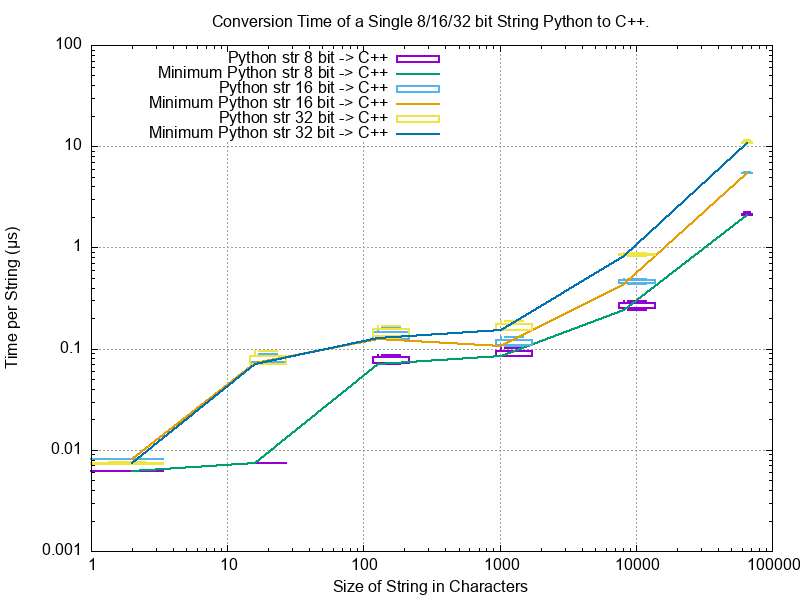
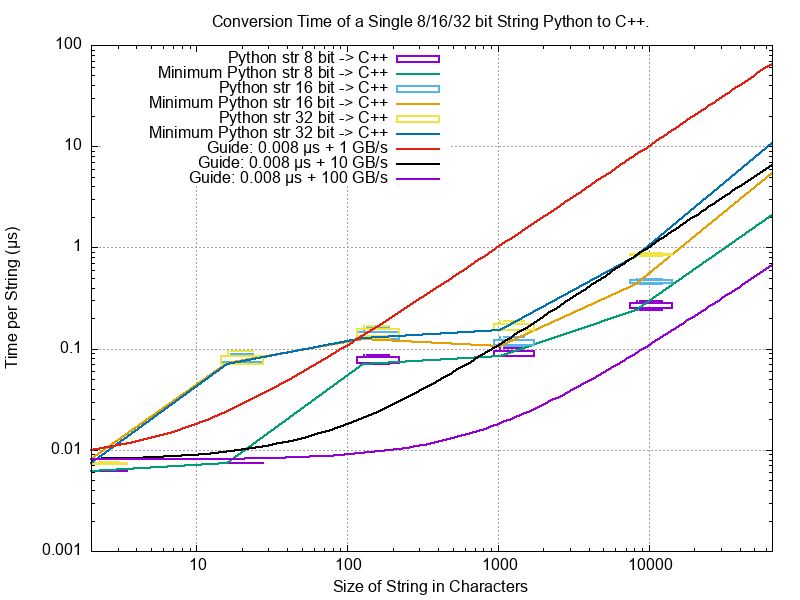
WIP on performance.

diff --git a/docs/sphinx/source/performance/performance_cpp.rst b/docs/sphinx/source/performance/performance_cpp.rst
@@ -16,7 +16,7 @@ memory tests.
 
 The performance tests are in ``src/cpy/tests/test_performance.h`` and ``src/cpy/tests/test_performance.cpp``.
 There are a number of macros ``TEST_PERFORMANCE_*`` there that control which tests are run.
-Running all tests takes about 20 minutes.
+Running all tests takes about 6.5 hours.
 
 The tests can be run by building and running the C++ binary from the project root:
 
@@ -26,25 +26,53 @@ The tests can be run by building and running the C++ binary from the project roo
     cmake --build cmake-build-release --target PyCppContainers -- -j 6
     cmake-build-release/PyCppContainers
 
+.. note::
+
+    The debug build includes more exhaustive internal tests (using ``assert()``) but excludes the performance tests as
+    they take a *very* long time for a debug build.
+
 The output is large and looks like this:
+
+.. raw:: latex
+
+    \begin{landscape}
 
 .. code-block:: shell
 
-    cmake-build-release/PyCppContainers
+    $ cmake-build-release/PyCppContainers
+    ---> C++ release tests
     Hello, World!
     Python version: 3.12.1
     test_functional_all START
-    RSS(Mb): was:     29.047 now:     29.062 diff:     +0.016 Peak was:     29.047 now:     29.062 diff:     +0.016 test_vector_to_py_tuple<bool>
-    RSS(Mb): was:     29.062 now:     29.074 diff:     +0.012 Peak was:     29.062 now:     29.074 diff:     +0.012 test_vector_to_py_tuple<long>
-    RSS(Mb): was:     29.074 now:     29.098 diff:     +0.023 Peak was:     29.074 now:     29.098 diff:     +0.023 test_vector_to_py_tuple<double>
+    RSS(Mb): was:     16.523 now:     16.531 diff:     +0.008 Peak was:     16.523 now:     16.531 diff:     +0.008 test_vector_to_py_tuple<bool>
+    RSS(Mb): was:     16.531 now:     16.535 diff:     +0.004 Peak was:     16.531 now:     16.535 diff:     +0.004 test_vector_to_py_tuple<long>
+    RSS(Mb): was:     16.535 now:     16.539 diff:     +0.004 Peak was:     16.535 now:     16.539 diff:     +0.004 test_vector_to_py_tuple<double>
+
     8<---- Snip ---->8
 
+    TEST:    0    4096       1     0.002047584             N/A             N/A             N/A         1         488.4 test_py_tuple_str32_to_vector std::string[2048]>():[4096]
+    TEST:    0    8192       1     0.004002917             N/A             N/A             N/A         1         249.8 test_py_tuple_str32_to_vector std::string[2048]>():[8192]
+    TEST:    0   16384       1     0.008183250             N/A             N/A             N/A         1         122.2 test_py_tuple_str32_to_vector std::string[2048]>():[16384]
+    TEST:    0   32768       1     0.039068668             N/A             N/A             N/A         1          25.6 test_py_tuple_str32_to_vector std::string[2048]>():[32768]
+    TEST:    0   65536       1     0.044092626             N/A             N/A             N/A         1          22.7 test_py_tuple_str32_to_vector std::string[2048]>():[65536]
+    TEST:    0    4096       1     4.745317500             N/A             N/A             N/A         1           0.2 test_unordered_set_bytes_to_py_set std::string[1048576]>():[4096]
+    TAIL: Passed=24192/24192 Failed=0/24192
+    All tests pass.
+
+    ====RSS(Mb): was:      9.262 now:    844.883 diff:   +835.621 Peak was:      9.262 now:   3593.207 diff:  +3583.945 main.cpp
+    Total execution time:    23880.011 (s)
+    Count of unique strings created: 131724750
+    Bye, bye! Returning 0
+
+.. raw:: latex
+
+    \end{landscape}
 
 The complete output can be captured to ``perf_notes/cpp_test_results.txt`` with this command:
 
 .. code-block:: shell
 
-    caffeinate time cmake-build-release/PyCppContainers > perf_notes/cpp_test_results.txt
+    $ time cmake-build-release/PyCppContainers > perf_notes/cpp_test_results.txt
 
 Then there is a Python script ``perf_notes/write_dat_files_for_cpp_test_results.py`` that will extract all the
 performance data into ``perf_notes/dat`` suitable for gnuplot.
@@ -62,6 +90,24 @@ Conversion of Fundamental Types
 These C++ functions test the cost of converting ints, floats and bytes objects between Python and C++.
 These test are executed if the macro ``TEST_PERFORMANCE_FUNDAMENTAL_TYPES`` is defined.
 
+Numeric Types
+^^^^^^^^^^^^^^^^^
+
+..
+    From perf_notes/cpp_test_results.txt
+    HEAD: Fail   Scale  Repeat         Mean(s)     Std.Dev.(s)         Min.(s)         Max.(s)     Count      Rate(/s) Name
+    TEST:    0 1000000      20     0.001561753     0.000001978     0.001560542     0.001567459        20       12806.1 test_bool_to_py_bool_multiple[1000000]
+    TEST:    0 1000000      20     0.001468528     0.000027571     0.001455168     0.001562000        20       13619.1 test_py_bool_to_cpp_bool_multiple[1000000]
+    TEST:    0 1000000      20     0.020391246     0.002205520     0.018449710     0.024430667        20         980.8 test_long_to_py_int_multiple[1000000]
+    TEST:    0 1000000      20     0.004190838     0.000008678     0.004167083     0.004201125        20        4772.3 test_py_int_to_cpp_long_multiple[1000000]
+    TEST:    0 1000000      20     0.015347088     0.000493604     0.014248792     0.015617834        20        1303.2 test_double_to_py_float_multiple[1000000]
+    TEST:    0 1000000      20     0.005575696     0.000007624     0.005568000     0.005591876        20        3587.0 test_py_float_to_cpp_double_multiple[1000000]
+    TEST:    0 1000000      20     0.022577623     0.000916127     0.021249167     0.025298459        20         885.8 test_complex_to_py_complex_multiple[1000000]
+    TEST:    0 1000000      20     0.006424378     0.000006946     0.006420126     0.006452625        20        3113.1 test_py_complex_to_cpp_complex_multiple[1000000]
+
+    Example: test_bool_to_py_bool_multiple() C++ to Python. Min is 0.001560542 for 1e6 conversions. So 1e9 * 0.00156 / 1e6 = 1.56
+    Example: test_py_bool_to_cpp_bool_multiple() Python to C++. Min is 0.001455168 for 1e6 conversions. So 1e9 * 0.00146 / 1e6 = 1.46
+
 .. list-table:: Fundamental Type Conversion Time. Times in nanoseconds.
    :widths: 30 20 20 20 60
    :header-rows: 1
@@ -72,31 +118,70 @@ These test are executed if the macro ``TEST_PERFORMANCE_FUNDAMENTAL_TYPES`` is d
      - Ratio
      - Notes
    * - ``bool``/``bool``
-     - 2.7
-     - 1.6
-     - 1.7x
-     - The mean is around 450m/s
+     - 1.56
+     - 1.46
+     - 1.07x
+     - The mean is around 660 million/s
    * - ``long``/``int``
-     - 14.6
-     - 4.6
-     - 3.2x
-     - The mean is around 100m/s.
+     - 18.4
+     - 4.16
+     - 4.42x
+     - The mean is around 88 million/s.
    * - ``double``/``float``
-     - 8.6
-     - 2.7
-     - 3.2x
-     - The mean is around 180m/s.
+     - 14.2
+     - 5.56
+     - 2.55x
+     - The mean is around 100 million/s.
    * - ``complex<double>``/``complex``
-     - 12.2
-     - 4.9
-     - 2.5x
-     - The mean is around 120m/s.
+     - 21.2
+     - 6.42
+     - 3.30x
+     - The mean is around 72 million/s.
 
 Converting from C++ to Python is always slower than from Python to C++.
 
+
+``bytes``
+^^^^^^^^^^^^^^^^^^^^^^^^^^^
+
 For a single C++ ``std::vector<char>`` to and from Python ``bytes`` of different lengths:
 
-.. list-table:: Fundamental Type Conversion Time. Times in nanoseconds.
+..
+    From perf_notes/cpp_test_results.txt
+    HEAD: Fail   Scale  Repeat         Mean(s)     Std.Dev.(s)         Min.(s)         Max.(s)     Count      Rate(/s) Name
+    TEST:    0 1000000      20     0.057439107     0.006509894     0.052396208     0.075423792        20         348.2 test_cpp_vector_char_to_py_bytes_multiple_2[1000000]
+    TEST:    0 1000000      20     0.053159580     0.000777435     0.052021209     0.054217417        20         376.2 test_cpp_vector_char_to_py_bytes_multiple_16[1000000]
+    TEST:    0 1000000      20     0.054709067     0.000891610     0.053596959     0.056247709        20         365.6 test_cpp_vector_char_to_py_bytes_multiple_128[1000000]
+    TEST:    0 1000000      20     0.119114457     0.009596428     0.107581917     0.139490666        20         167.9 test_cpp_vector_char_to_py_bytes_multiple_1024[1000000]
+    TEST:    0 1000000      20     0.300614207     0.017573230     0.271704084     0.328277376        20          66.5 test_cpp_vector_char_to_py_bytes_multiple_8192[1000000]
+    TEST:    0 1000000      20     2.420889067     0.030892970     2.374831875     2.488255167        20           8.3 test_cpp_vector_char_to_py_bytes_multiple_65536[1000000]
+    TEST:    0 1000000      20     0.056535515     0.003379383     0.051730335     0.062494459        20         353.8 test_py_bytes_to_cpp_vector_char_multiple_2[1000000]
+    TEST:    0 1000000      20     0.054382388     0.002028227     0.052218167     0.059590500        20         367.8 test_py_bytes_to_cpp_vector_char_multiple_16[1000000]
+    TEST:    0 1000000      20     0.072021513     0.002964195     0.068870083     0.078325250        20         277.7 test_py_bytes_to_cpp_vector_char_multiple_128[1000000]
+    TEST:    0 1000000      20     0.091097832     0.005092673     0.083415293     0.101530751        20         219.5 test_py_bytes_to_cpp_vector_char_multiple_1024[1000000]
+    TEST:    0 1000000      20     0.263217424     0.015400919     0.240177208     0.287619668        20          76.0 test_py_bytes_to_cpp_vector_char_multiple_8192[1000000]
+    TEST:    0 1000000      20     2.124635850     0.017340990     2.084605542     2.158811208        20           9.4 test_py_bytes_to_cpp_vector_char_multiple_65536[1000000]
+
+    Example: test_cpp_vector_char_to_py_bytes_multiple_2() C++ to Python. Min is 0.052396208 for 1e6 conversions. So 1e9 * 0.0524 / 1e6 = 52.4
+    Example: test_py_bytes_to_cpp_vector_char_multiple_2() Python to C++. Min is 0.051730335 for 1e6 conversions. So 1e9 * 0.0517 / 1e6 = 51.7
+
+.. image:: ../plots/images/test_cpp_vector_char_to_py_bytes.png
+    :height: 600px
+    :align: center
+
+.. todo::
+
+    Commentary.
+
+.. image:: ../plots/images/test_py_bytes_to_cpp_vector_char_multiple.dat.png
+    :height: 600px
+    :align: center
+
+.. todo::
+
+    Commentary.
+
+.. list-table:: ``bytes`` Conversion Time. Times in nanoseconds.
    :widths: 30 20 20 20 60
    :header-rows: 1
 
@@ -106,43 +191,97 @@ For a single C++ ``std::vector<char>`` to and from Python ``bytes`` of different
      - Ratio
      - Notes
    * - 2
-     - 17.3
-     - 4.7
-     - 3.7x
+     - 52.4
+     - 51.7
+     - 1.01x
      -
    * - 16
-     - 16.9
-     - 4.0
-     - 4.2x
+     - 52.0
+     - 52.2
+     - 0.996x
      -
    * - 128
-     - 20.1
-     - 64.1
-     - 0.31x
+     - 53.6
+     - 68.9
+     - 0.778x
      -
    * - 1024
-     - 80.7
-     - 67.1
-     - 1.2x
-     - Corresponds to about 14 Gb/s
+     - 108
+     - 83.4
+     - 1.30x
+     - Corresponds to about 11 Gb/s
    * - 8192
-     - 131.7
-     - 119.7
-     - 1.1x
-     - Corresponds to about 64 Gb/s
+     - 272
+     - 240
+     - 1.13x
+     - Corresponds to about 32 Gb/s
    * - 65536
-     - 1,567
-     - 1,551
-     - 1.0x
-     - Corresponds to about 41 Gb/s
-
-Bytes conversion time from C++ to Python or the reverse takes asymptotically and roughly:
-
-.. code-block:: text
-
-    t (ns) = 1200 * length / 50,000
+     - 2,375
+     - 2,085
+     - 1.14x
+     - Corresponds to about 29 Gb/s
 
 For a single C++ ``std::string`` to and from Python ``str`` of different lengths:
+
+Strings
+^^^^^^^^^^^^^^^^^^^^^^
+
+..
+    From perf_notes/cpp_test_results.txt
+    HEAD: Fail   Scale  Repeat         Mean(s)     Std.Dev.(s)         Min.(s)         Max.(s)     Count      Rate(/s) Name
+    TEST:    0 1000000      20     0.058759109     0.003645734     0.053923376     0.066701584        20         340.4 test_cpp_string_to_py_str_multiple_2[1000000]
+    TEST:    0 1000000      20     0.060736565     0.001276392     0.058984251     0.063327876        20         329.3 test_cpp_string_to_py_str_multiple_16[1000000]
+    TEST:    0 1000000      20     0.064648476     0.001873584     0.061841501     0.069060916        20         309.4 test_cpp_string_to_py_str_multiple_128[1000000]
+    TEST:    0 1000000      20     0.197420682     0.011602980     0.185850333     0.219071125        20         101.3 test_cpp_string_to_py_str_multiple_1024[1000000]
+    TEST:    0 1000000      20     0.720809661     0.017942847     0.686475625     0.746969209        20          27.7 test_cpp_string_to_py_str_multiple_8192[1000000]
+    TEST:    0 1000000      20     5.359504186     0.024684586     5.327452417     5.432398459        20           3.7 test_cpp_string_to_py_str_multiple_65536[1000000]
+    TEST:    0 1000000      20     0.006176815     0.000003319     0.006173209     0.006182918        20        3237.9 test_py_str_to_cpp_string_multiple_2[1000000]
+    TEST:    0 1000000      20     0.007333573     0.000004223     0.007330334     0.007346251        20        2727.2 test_py_str_to_cpp_string_multiple_16[1000000]
+    TEST:    0 1000000      20     0.077593984     0.005359461     0.070420583     0.085804625        20         257.8 test_py_str_to_cpp_string_multiple_128[1000000]
+    TEST:    0 1000000      20     0.089523303     0.005118394     0.083854375     0.100696042        20         223.4 test_py_str_to_cpp_string_multiple_1024[1000000]
+    TEST:    0 1000000      20     0.266933671     0.015144741     0.243118751     0.292431167        20          74.9 test_py_str_to_cpp_string_multiple_8192[1000000]
+    TEST:    0 1000000      20     2.123572144     0.033200797     2.094082043     2.250884334        20           9.4 test_py_str_to_cpp_string_multiple_65536[1000000]
+    TEST:    0 1000000      20     0.042588886     0.001377939     0.040422959     0.043991375        20         469.6 test_cpp_u16string_to_py_str16_multiple_2[1000000]
+    TEST:    0 1000000      20     0.147994407     0.009139400     0.138898917     0.164160334        20         135.1 test_cpp_u16string_to_py_str16_multiple_16[1000000]
+    TEST:    0 1000000      20     0.873698398     0.009309133     0.854021875     0.887453251        20          22.9 test_cpp_u16string_to_py_str16_multiple_128[1000000]
+    TEST:    0 1000000      20     6.716434430     0.026116913     6.675454917     6.768655084        20           3.0 test_cpp_u16string_to_py_str16_multiple_1024[1000000]
+    TEST:    0 1000000      20    63.329128475     7.383649449    53.119942417    82.049977584        20           0.3 test_cpp_u16string_to_py_str16_multiple_8192[1000000]
+    TEST:    0 1000000      20   434.770099001    15.165859601   423.448348083   486.720068750        20           0.0 test_cpp_u16string_to_py_str16_multiple_65536[1000000]
+    TEST:    0 1000000      20     0.008109303     0.000006100     0.008102167     0.008129042        20        2466.3 test_py_str16_to_cpp_u16string_multiple_2[1000000]
+    TEST:    0 1000000      20     0.078421778     0.005190042     0.071888541     0.088546043        20         255.0 test_py_str16_to_cpp_u16string_multiple_16[1000000]
+    TEST:    0 1000000      20     0.135103696     0.009849180     0.123247876     0.161659084        20         148.0 test_py_str16_to_cpp_u16string_multiple_128[1000000]
+    TEST:    0 1000000      20     0.115050209     0.007282402     0.105869334     0.128821043        20         173.8 test_py_str16_to_cpp_u16string_multiple_1024[1000000]
+    TEST:    0 1000000      20     0.458368734     0.017611174     0.432019208     0.486256001        20          43.6 test_py_str16_to_cpp_u16string_multiple_8192[1000000]
+    TEST:    0 1000000      20     5.448628694     0.024358348     5.403639833     5.521592875        20           3.7 test_py_str16_to_cpp_u16string_multiple_65536[1000000]
+    TEST:    0 1000000      20     0.044683823     0.002890114     0.040840209     0.048879126        20         447.6 test_cpp_u32string_to_py_str32_multiple_2[1000000]
+    TEST:    0 1000000      20     0.249225642     0.011375113     0.233679833     0.271066042        20          80.2 test_cpp_u32string_to_py_str32_multiple_32[1000000]
+    TEST:    0 1000000      20     1.023829955     0.009710184     1.005457626     1.044050126        20          19.5 test_cpp_u32string_to_py_str32_multiple_128[1000000]
+    TEST:    0 1000000      20     6.735237898     0.031750375     6.680839667     6.832778668        20           3.0 test_cpp_u32string_to_py_str32_multiple_1024[1000000]
+    TEST:    0 1000000      20    53.187598769     0.114578230    53.028910543    53.416468667        20           0.4 test_cpp_u32string_to_py_str32_multiple_8192[1000000]
+    TEST:    0 1000000      20   429.282977688     1.372580931   427.808455626   434.008575291        20           0.0 test_cpp_u32string_to_py_str32_multiple_65536[1000000]
+    TEST:    0 1000000      20     0.007344234     0.000049091     0.007326501     0.007543208        20        2723.2 test_py_str32_to_cpp_u32string_multiple_2[1000000]
+    TEST:    0 1000000      20     0.077141528     0.006414912     0.071097542     0.095550751        20         259.3 test_py_str32_to_cpp_u32string_multiple_32[1000000]
+    TEST:    0 1000000      20     0.144473686     0.012002486     0.127959959     0.168075458        20         138.4 test_py_str32_to_cpp_u32string_multiple_128[1000000]
+    TEST:    0 1000000      20     0.165254003     0.011043742     0.152708750     0.185491626        20         121.0 test_py_str32_to_cpp_u32string_multiple_1024[1000000]
+    TEST:    0 1000000      20     0.853880155     0.014881503     0.822144209     0.878523792        20          23.4 test_py_str32_to_cpp_u32string_multiple_8192[1000000]
+    TEST:    0 1000000      20    10.891868471     0.187687075    10.764805500    11.638142875        20           1.8 test_py_str32_to_cpp_u32string_multiple_65536[1000000]
+
+    See also:
+    C++ to Python: fundamental_string_8_16_32.plt
+    Python to C++: fundamental_py_to_cpp_string_8_16_32.plt
+
+C++ to Python:
+
+.. image:: ../plots/images/fundamental_string_8_16_32.png
+    :height: 600px
+    :align: center
+
+Python to C++:
+
+.. image:: ../plots/images/fundamental_py_to_cpp_string_8_16_32.png
+    :height: 600px
+    :align: center
+
 
 .. list-table:: String Conversion Time. Times in nanoseconds.
    :widths: 30 20 20 20 60

diff --git a/docs/sphinx/source/performance.rst b/docs/sphinx/source/performance.rst
@@ -12,6 +12,8 @@ Here are some benchmarks for converting Python containers to and from their C++ 
 
 The C++ code was compiled with ``-O3`` and run on Apple M1 (2020) CPU running Mac OS X 13.5.1 (Ventura) with 16 GB RAM.
 
+These test results are built with Python 3.12.
+
 .. toctree::
    :maxdepth: 4
    :caption: Contents:
